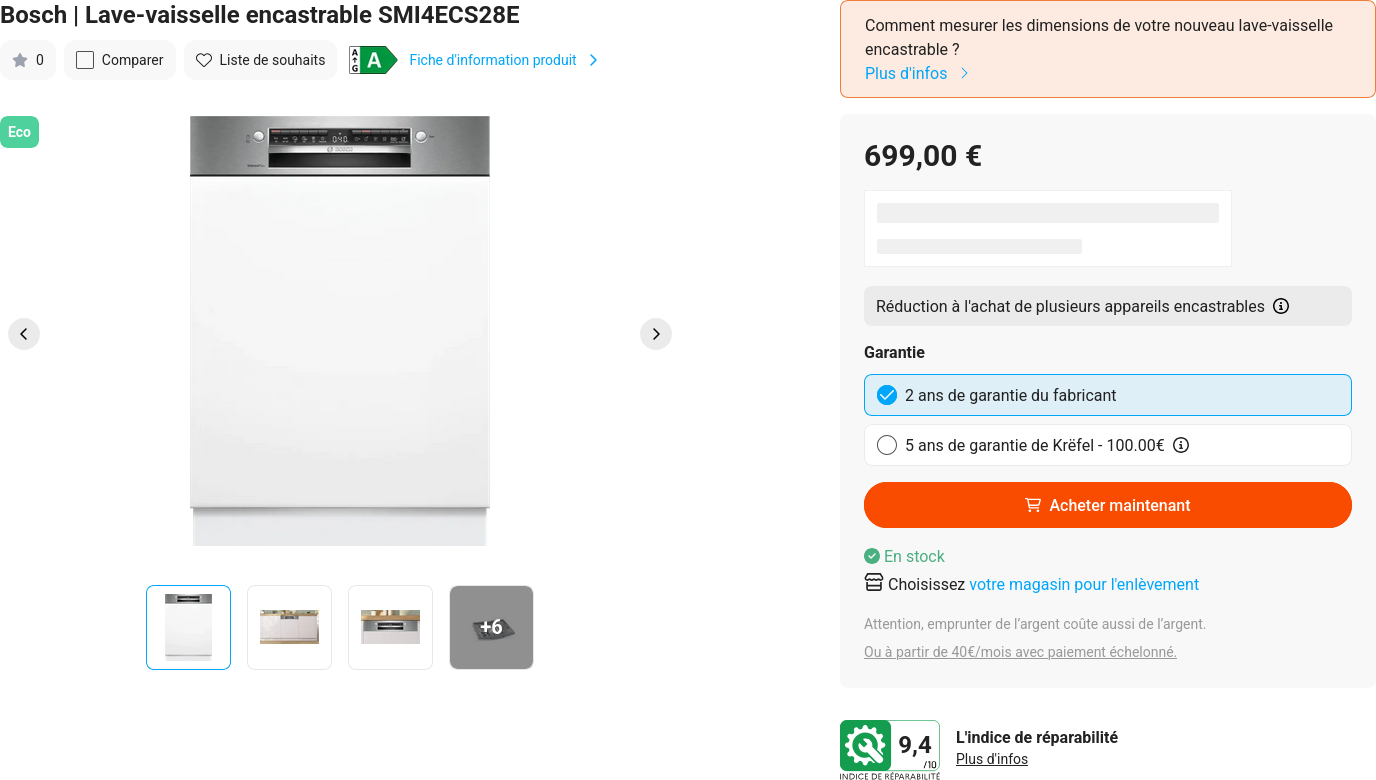
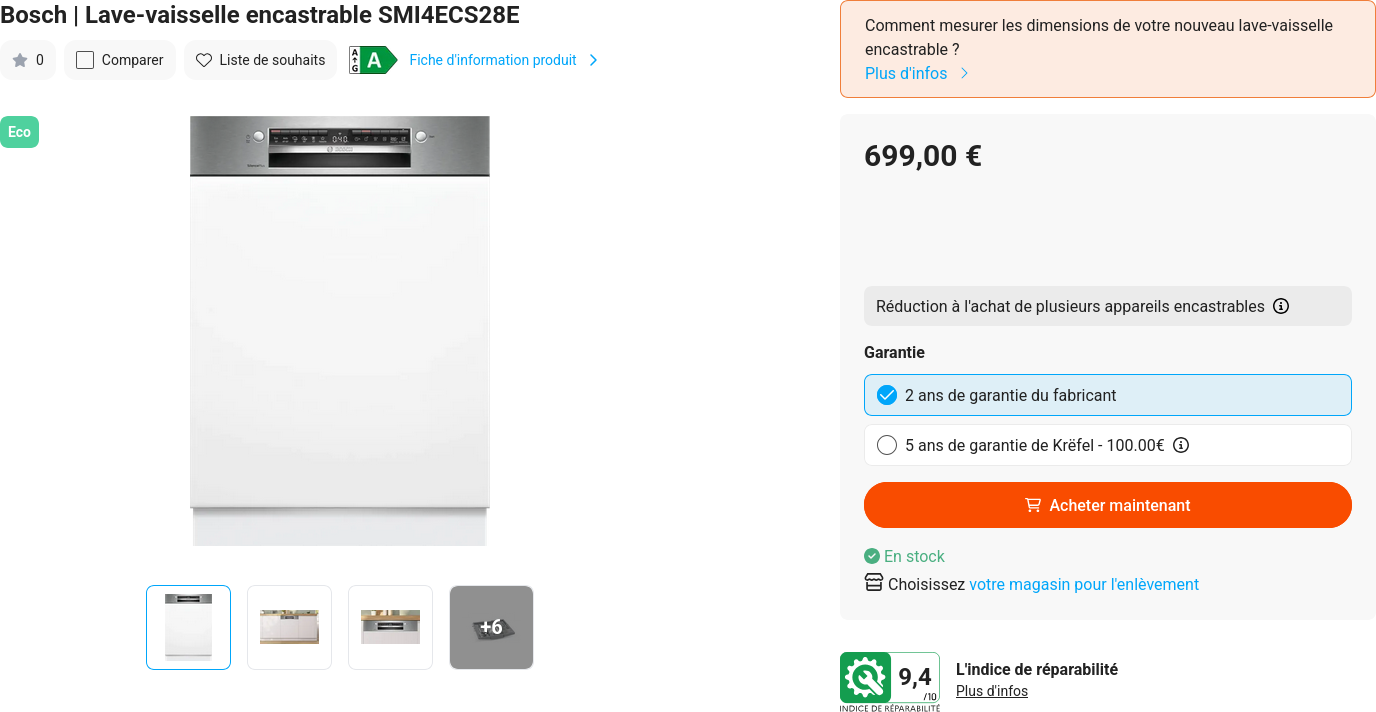
Latest scraping prices: Tue Jul  1 22:28:45 UTC 2025

diff --git a/scrapes/prices/krefel-SMI4ECS28E.md b/scrapes/prices/krefel-SMI4ECS28E.md
@@ -18,10 +18,6 @@ En stock
 
 Choisissez votre magasin pour l'enlèvement
 
-Attention, emprunter de l’argent coûte aussi de l’argent.
-
-Ou à partir de 40€/mois avec paiement échelonné.
-
 ### 9,4
 
 #### L'indice de réparabilité

diff --git a/scrapes/prices/vandenborre-SMI4ECS28E.md b/scrapes/prices/vandenborre-SMI4ECS28E.md
@@ -1,4 +1,4 @@
-Disponible \- Voir le stock
+Livré demain \- Voir le stock
 
 € 699,00
 
